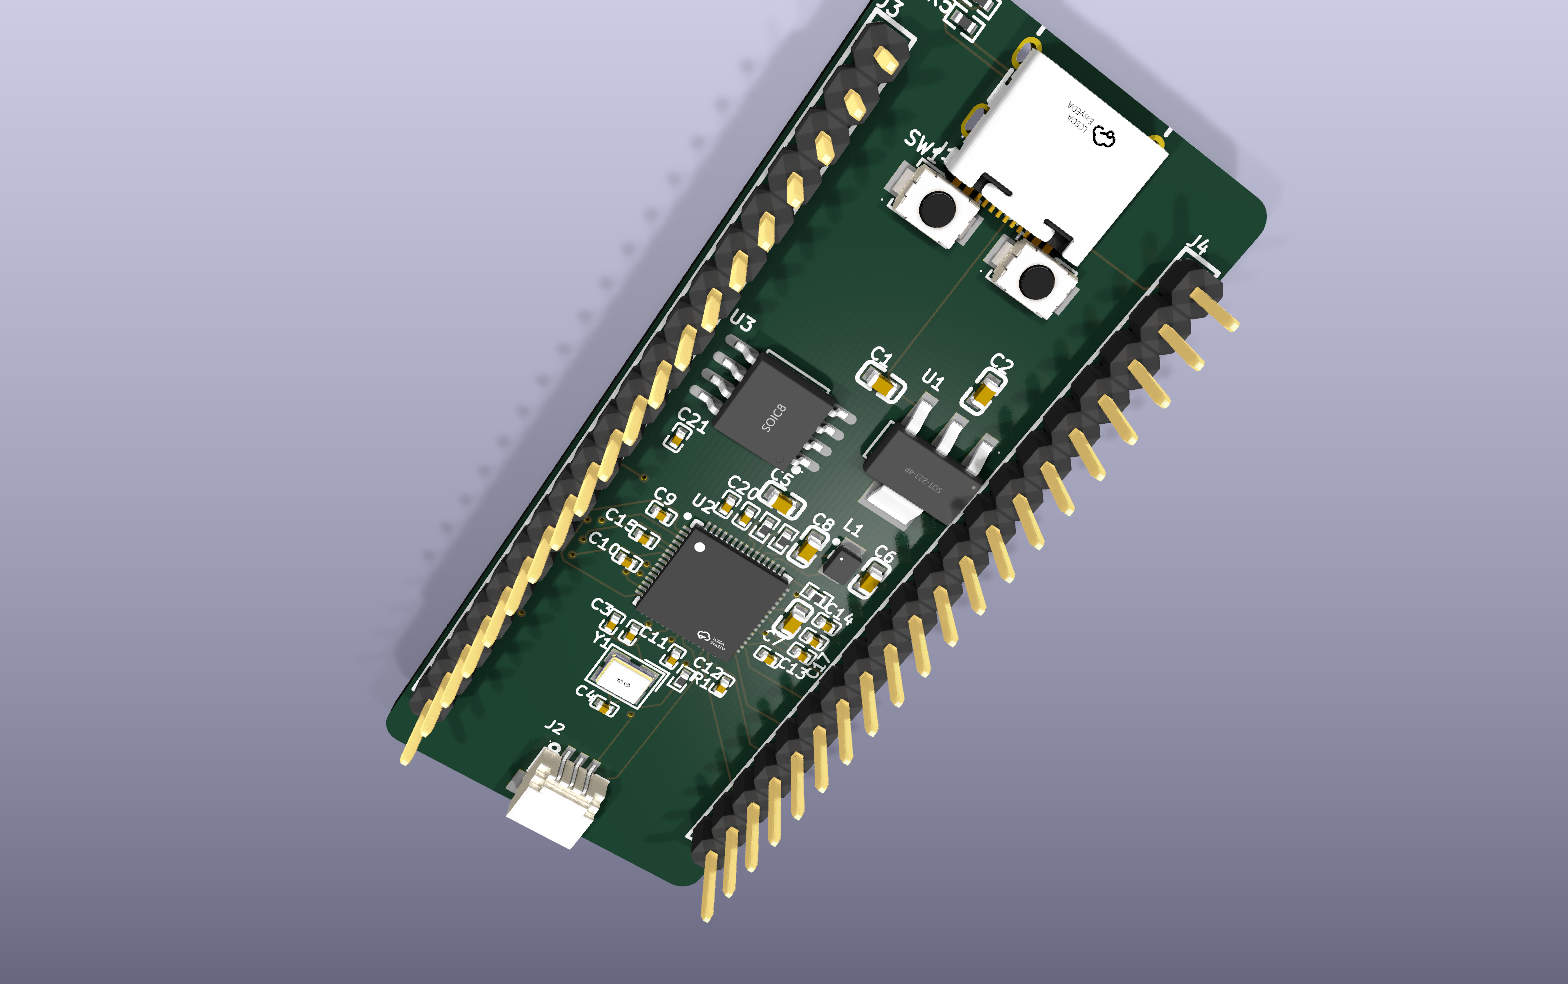
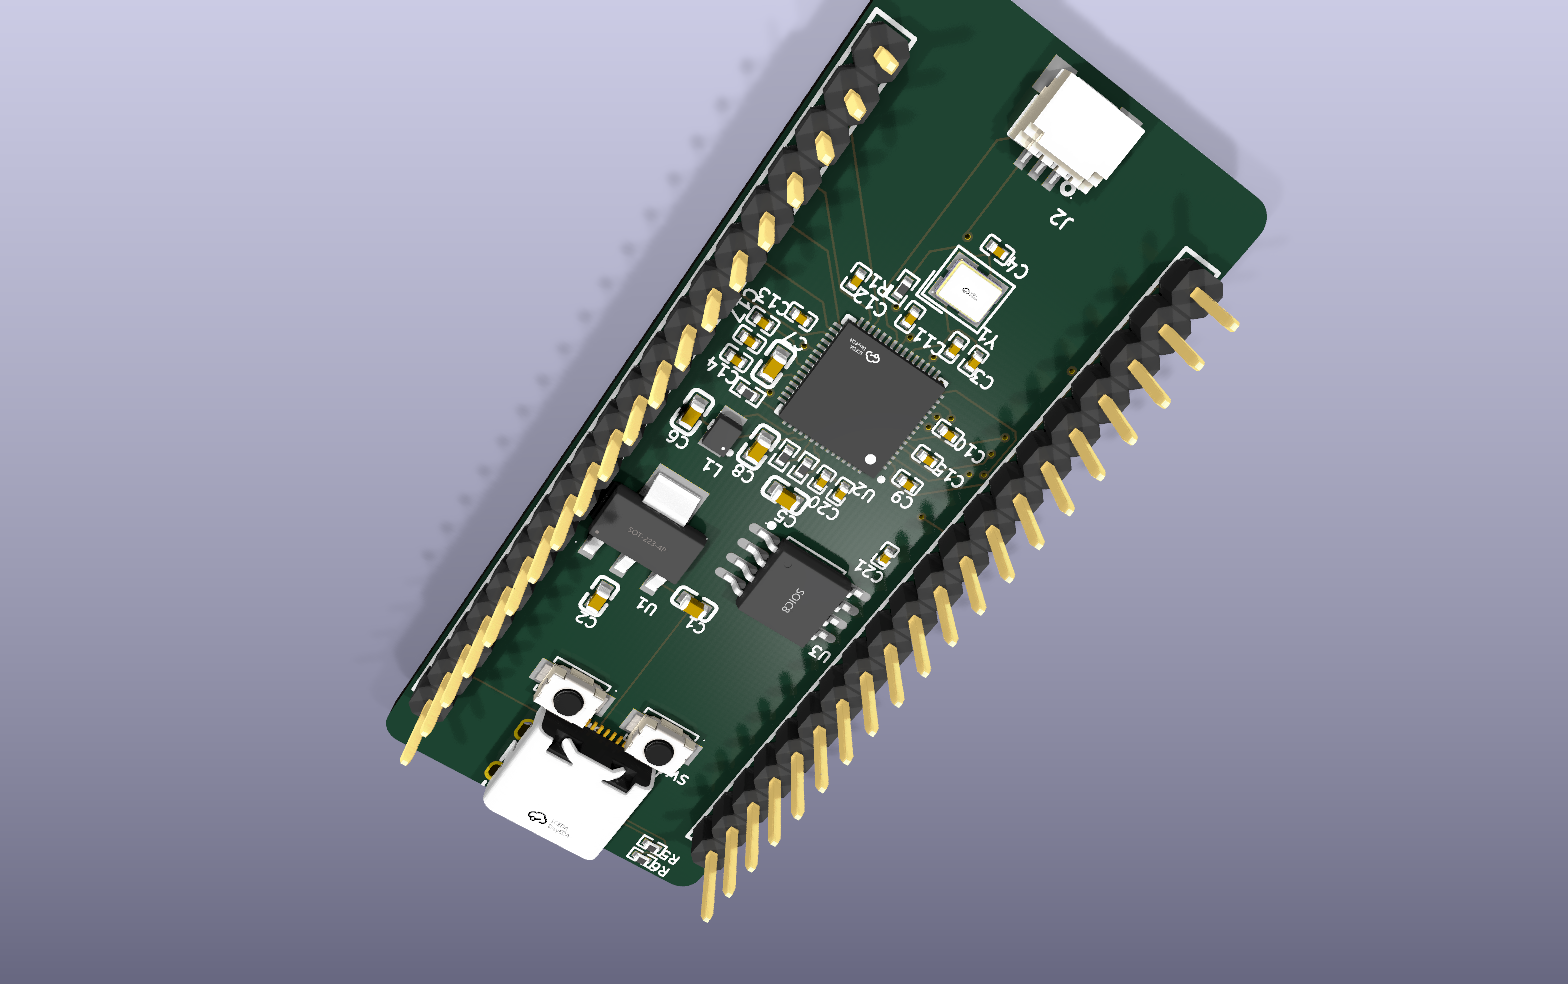
Add complete schematic galleries to README

Changed region(s): [[0.2812, 0.0, 0.75, 0.8841], [0.75, 0.2439, 0.7812, 0.2744], [0.5, 0.2134, 0.5312, 0.2439]]

diff --git a/README.md b/README.md
@@ -46,9 +46,16 @@ These projects were generated and iterated through KiCad Copilot. The complete K
 
 A hierarchical ATmega328P design with the MCU core, clock, reset, decoupling, USB-UART power, Nano-compatible headers, and debug connections split across functional sheets.
 
-<p align="center">
-  <img src="docs/media/examples/atmega328p-dev-schematic.png" alt="ATmega328P development board schematic generated with KiCad Copilot" width="100%">
-</p>
+<table>
+  <tr>
+    <td align="center" width="50%"><a href="docs/media/examples/atmega328p/overview.png"><img src="docs/media/examples/atmega328p/overview.png" alt="ATmega328P project overview" width="100%"></a><br><sub>Project overview</sub></td>
+    <td align="center" width="50%"><a href="docs/media/examples/atmega328p/usb-uart-power.png"><img src="docs/media/examples/atmega328p/usb-uart-power.png" alt="ATmega328P USB-UART and power sheet" width="100%"></a><br><sub>USB-UART and power</sub></td>
+  </tr>
+  <tr>
+    <td align="center" width="50%"><a href="docs/media/examples/atmega328p/mcu-core.png"><img src="docs/media/examples/atmega328p/mcu-core.png" alt="ATmega328P MCU core sheet" width="100%"></a><br><sub>MCU core</sub></td>
+    <td align="center" width="50%"><a href="docs/media/examples/atmega328p/nano-headers-debug.png"><img src="docs/media/examples/atmega328p/nano-headers-debug.png" alt="ATmega328P Nano headers and debug sheet" width="100%"></a><br><sub>Nano headers and debug</sub></td>
+  </tr>
+</table>
 
 [Download the ATmega328P project](examples/atmega328p_dev.zip)
 
@@ -56,9 +63,27 @@ A hierarchical ATmega328P design with the MCU core, clock, reset, decoupling, US
 
 A larger multi-sheet design covering power input, 3.3 V regulation, the high-voltage generator, flyback stage, feedback, detector, controller, and user interface.
 
-<p align="center">
-  <img src="docs/media/examples/geiger-hv-schematic.png" alt="Geiger high-voltage supply schematic generated with KiCad Copilot" width="100%">
-</p>
+<table>
+  <tr>
+    <td align="center" width="50%"><a href="docs/media/examples/geiger-hv/overview.png"><img src="docs/media/examples/geiger-hv/overview.png" alt="Geiger HV project overview" width="100%"></a><br><sub>Project overview</sub></td>
+    <td align="center" width="50%"><a href="docs/media/examples/geiger-hv/power.png"><img src="docs/media/examples/geiger-hv/power.png" alt="Geiger HV power input sheet" width="100%"></a><br><sub>Power input</sub></td>
+  </tr>
+  <tr>
+    <td align="center" width="50%"><a href="docs/media/examples/geiger-hv/high-voltage.png"><img src="docs/media/examples/geiger-hv/high-voltage.png" alt="Geiger high-voltage generator sheet" width="100%"></a><br><sub>High-voltage generator</sub></td>
+    <td align="center" width="50%"><a href="docs/media/examples/geiger-hv/detector.png"><img src="docs/media/examples/geiger-hv/detector.png" alt="Geiger detector sheet" width="100%"></a><br><sub>Detector</sub></td>
+  </tr>
+  <tr>
+    <td align="center" width="50%"><a href="docs/media/examples/geiger-hv/controller-ui.png"><img src="docs/media/examples/geiger-hv/controller-ui.png" alt="Geiger controller UI sheet" width="100%"></a><br><sub>Controller UI</sub></td>
+    <td align="center" width="50%"><a href="docs/media/examples/geiger-hv/power-3v3.png"><img src="docs/media/examples/geiger-hv/power-3v3.png" alt="Geiger 3.3 V power sheet" width="100%"></a><br><sub>3.3 V power</sub></td>
+  </tr>
+  <tr>
+    <td align="center" width="50%"><a href="docs/media/examples/geiger-hv/hv-flyback.png"><img src="docs/media/examples/geiger-hv/hv-flyback.png" alt="Geiger HV flyback sheet" width="100%"></a><br><sub>HV flyback</sub></td>
+    <td align="center" width="50%"><a href="docs/media/examples/geiger-hv/hv-feedback.png"><img src="docs/media/examples/geiger-hv/hv-feedback.png" alt="Geiger HV feedback sheet" width="100%"></a><br><sub>HV feedback</sub></td>
+  </tr>
+  <tr>
+    <td align="center" colspan="2"><a href="docs/media/examples/geiger-hv/user-interface.png"><img src="docs/media/examples/geiger-hv/user-interface.png" alt="Geiger user interface sheet" width="50%"></a><br><sub>User interface</sub></td>
+  </tr>
+</table>
 
 [Download the Geiger high-voltage project](examples/geiger_hv.zip)
 
@@ -66,9 +91,24 @@ A larger multi-sheet design covering power input, 3.3 V regulation, the high-vol
 
 A hierarchical RP2350 design with power, clock, flash, USB/debug, GPIO headers, and an AI-generated PCB placement. The example includes the placement DSL and an editable KiCad board.
 
+<table>
+  <tr>
+    <td align="center" width="50%"><a href="docs/media/examples/rp2350/overview.png"><img src="docs/media/examples/rp2350/overview.png" alt="RP2350 project overview" width="100%"></a><br><sub>Project overview</sub></td>
+    <td align="center" width="50%"><a href="docs/media/examples/rp2350/power.png"><img src="docs/media/examples/rp2350/power.png" alt="RP2350 power sheet" width="100%"></a><br><sub>Power</sub></td>
+  </tr>
+  <tr>
+    <td align="center" width="50%"><a href="docs/media/examples/rp2350/rp2350-clock.png"><img src="docs/media/examples/rp2350/rp2350-clock.png" alt="RP2350 and clock sheet" width="100%"></a><br><sub>RP2350 and clock</sub></td>
+    <td align="center" width="50%"><a href="docs/media/examples/rp2350/flash.png"><img src="docs/media/examples/rp2350/flash.png" alt="RP2350 flash sheet" width="100%"></a><br><sub>Flash</sub></td>
+  </tr>
+  <tr>
+    <td align="center" width="50%"><a href="docs/media/examples/rp2350/usb-debug.png"><img src="docs/media/examples/rp2350/usb-debug.png" alt="RP2350 USB and debug sheet" width="100%"></a><br><sub>USB and debug</sub></td>
+    <td align="center" width="50%"><a href="docs/media/examples/rp2350/gpio-headers.png"><img src="docs/media/examples/rp2350/gpio-headers.png" alt="RP2350 GPIO headers sheet" width="100%"></a><br><sub>GPIO headers</sub></td>
+  </tr>
+</table>
+
 <p align="center">
-  <img src="docs/media/examples/rp2350-schematic.png" alt="RP2350 development board schematic generated with KiCad Copilot" width="56%">
-  <img src="docs/media/examples/rp2350-pcb.png" alt="RP2350 PCB placement generated with KiCad Copilot" width="42%">
+  <img src="docs/media/examples/rp2350-pcb.png" alt="3D render of the RP2350 PCB placement generated with KiCad Copilot" width="90%">
+  <br><sub>KiCad 3D render of the generated PCB placement</sub>
 </p>
 
 [Download the RP2350 project](examples/rp2350_debug.zip)
